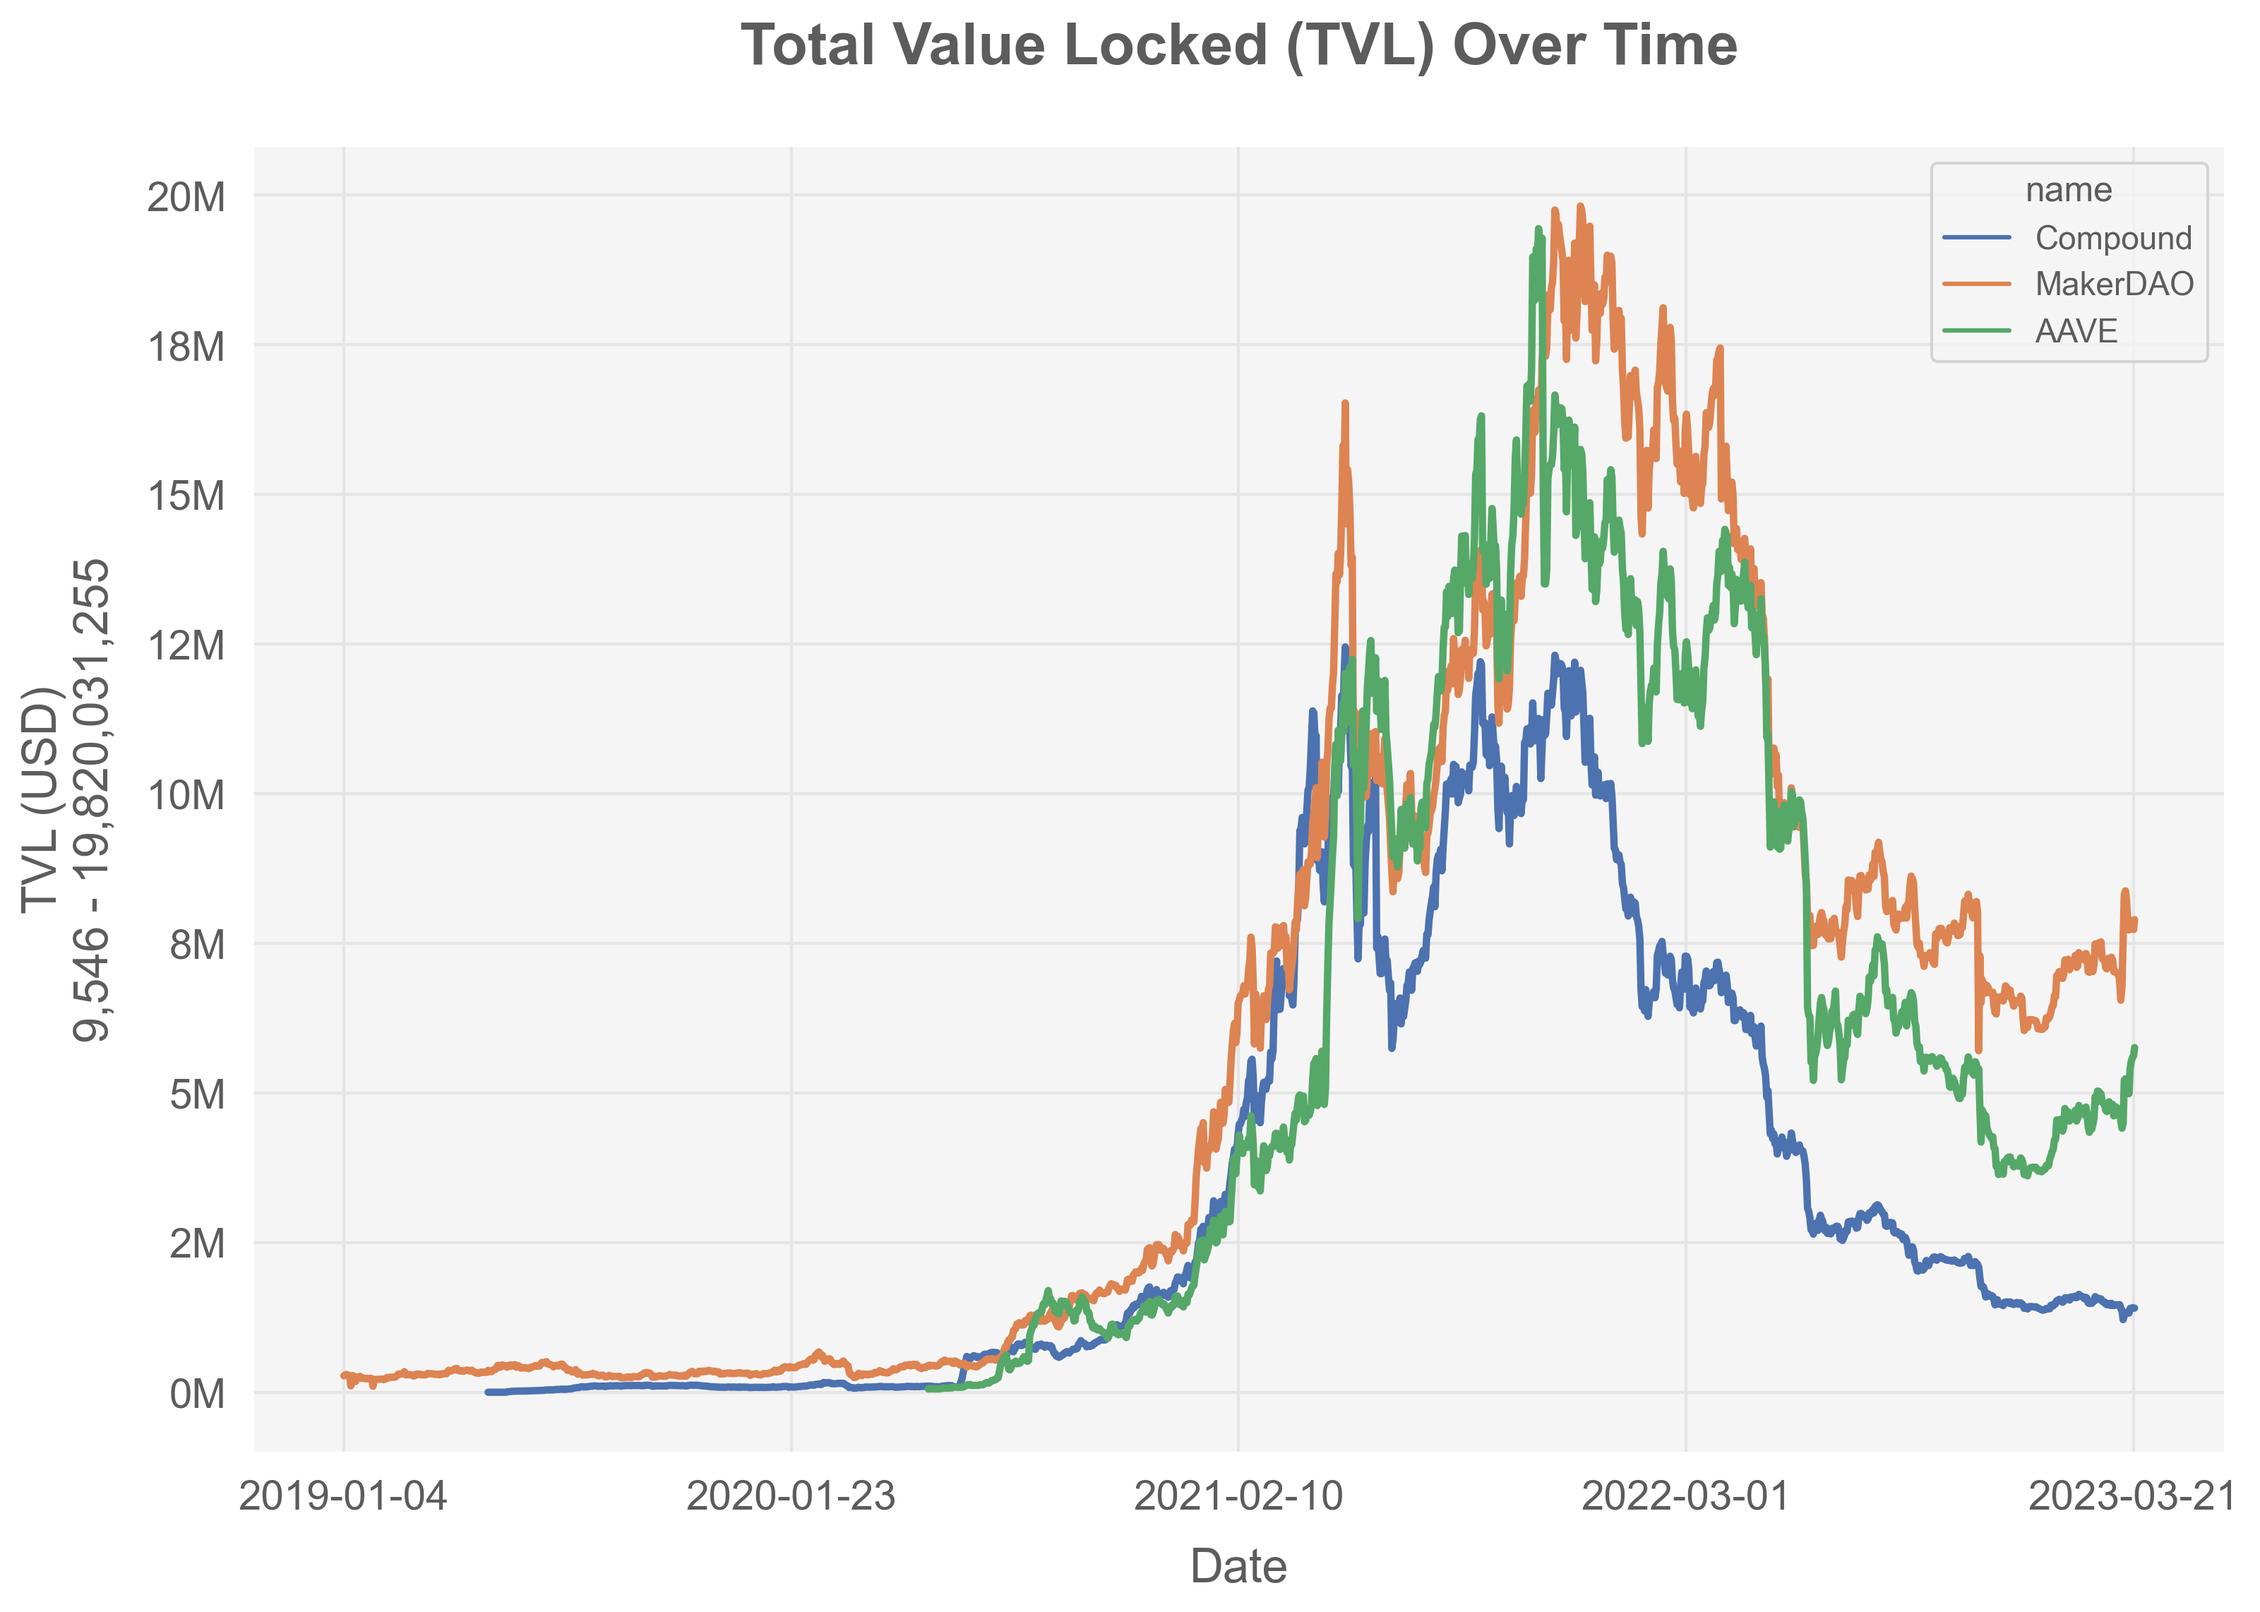
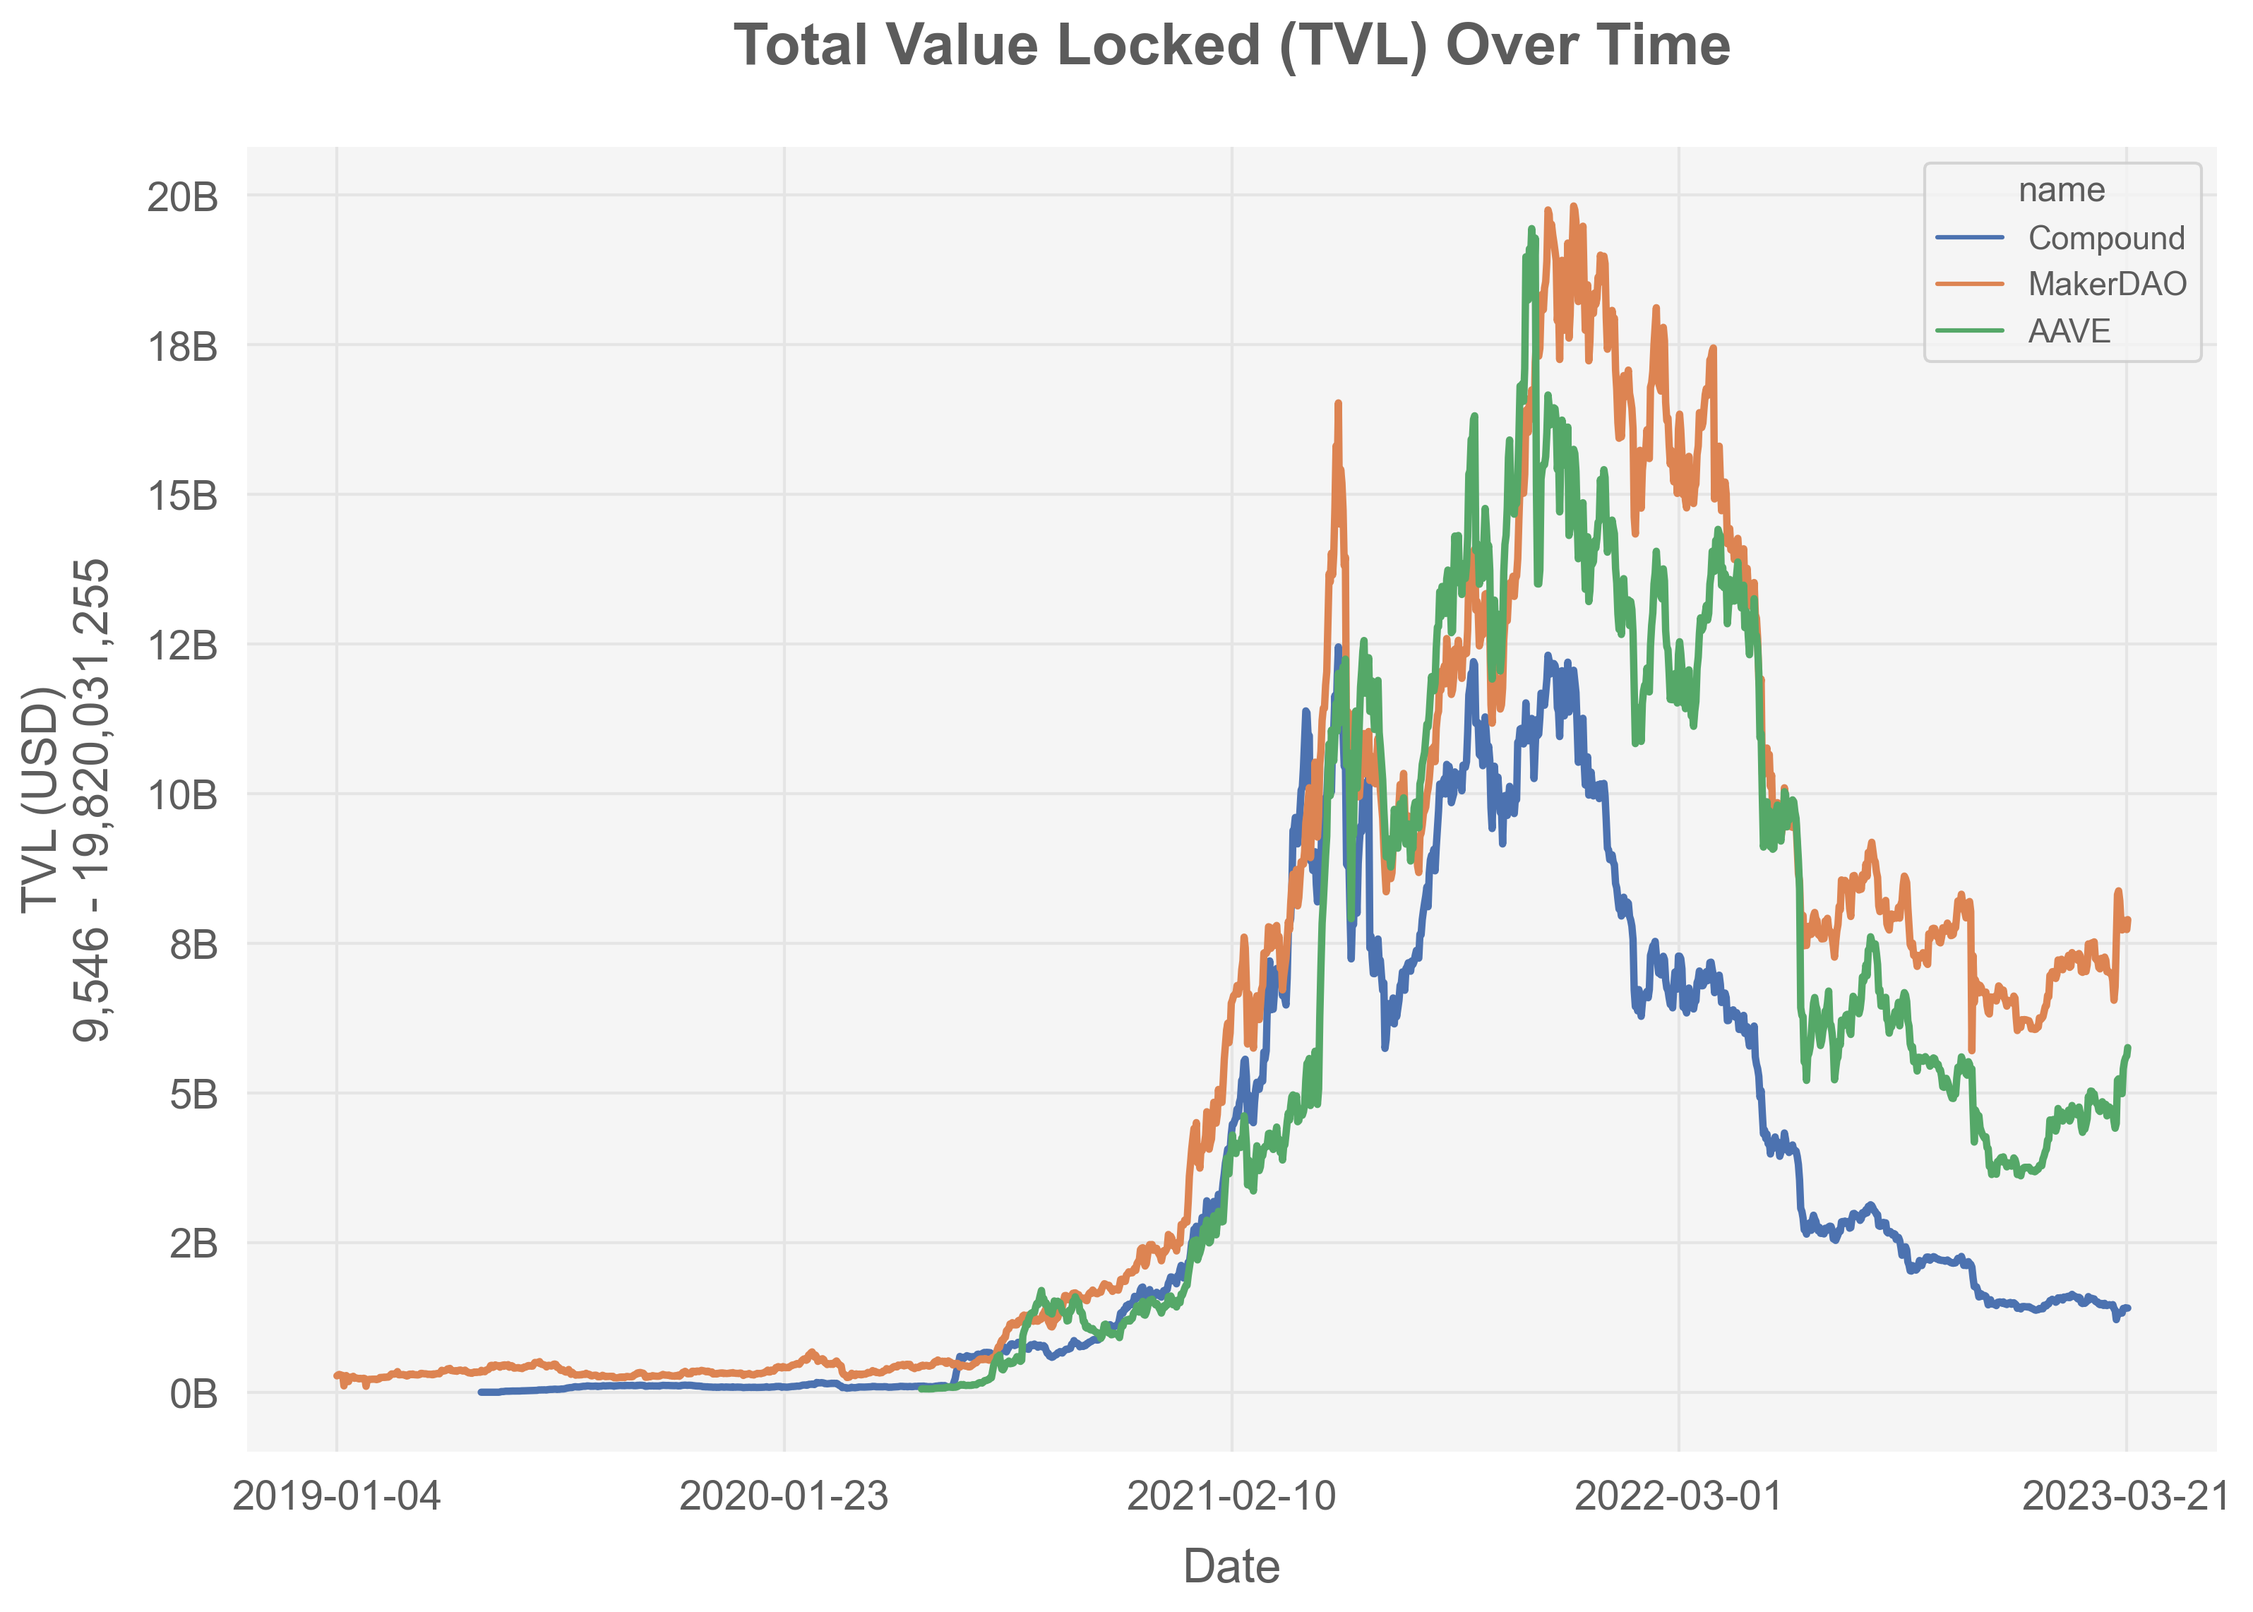
links added to readme

diff --git a/app/protocol_reports/charts/main.py b/app/protocol_reports/charts/main.py
@@ -25,7 +25,7 @@ def get_data(protocol_ids):
 
 
 def billions_formatter(x, pos):
-    return f"{x * 1e-9:.0f}M"
+    return f"{x * 1e-9:.0f}B"
 
 
 protocol_ids = [1, 2, 3]

diff --git a/README.md b/README.md
@@ -6,10 +6,14 @@ The purpose of this project is to provide a central location for all DeFi data. 
 
 # Data Sources
 
-### Defi Llama
 
-### Bittrex
-### Messari
+[Defi Llama](https://defillama.com/)
+
+[Bittrex](https://bittrex.com/)
+
+[Messari](https://messari.io/)
+
+
 
 # API
 
